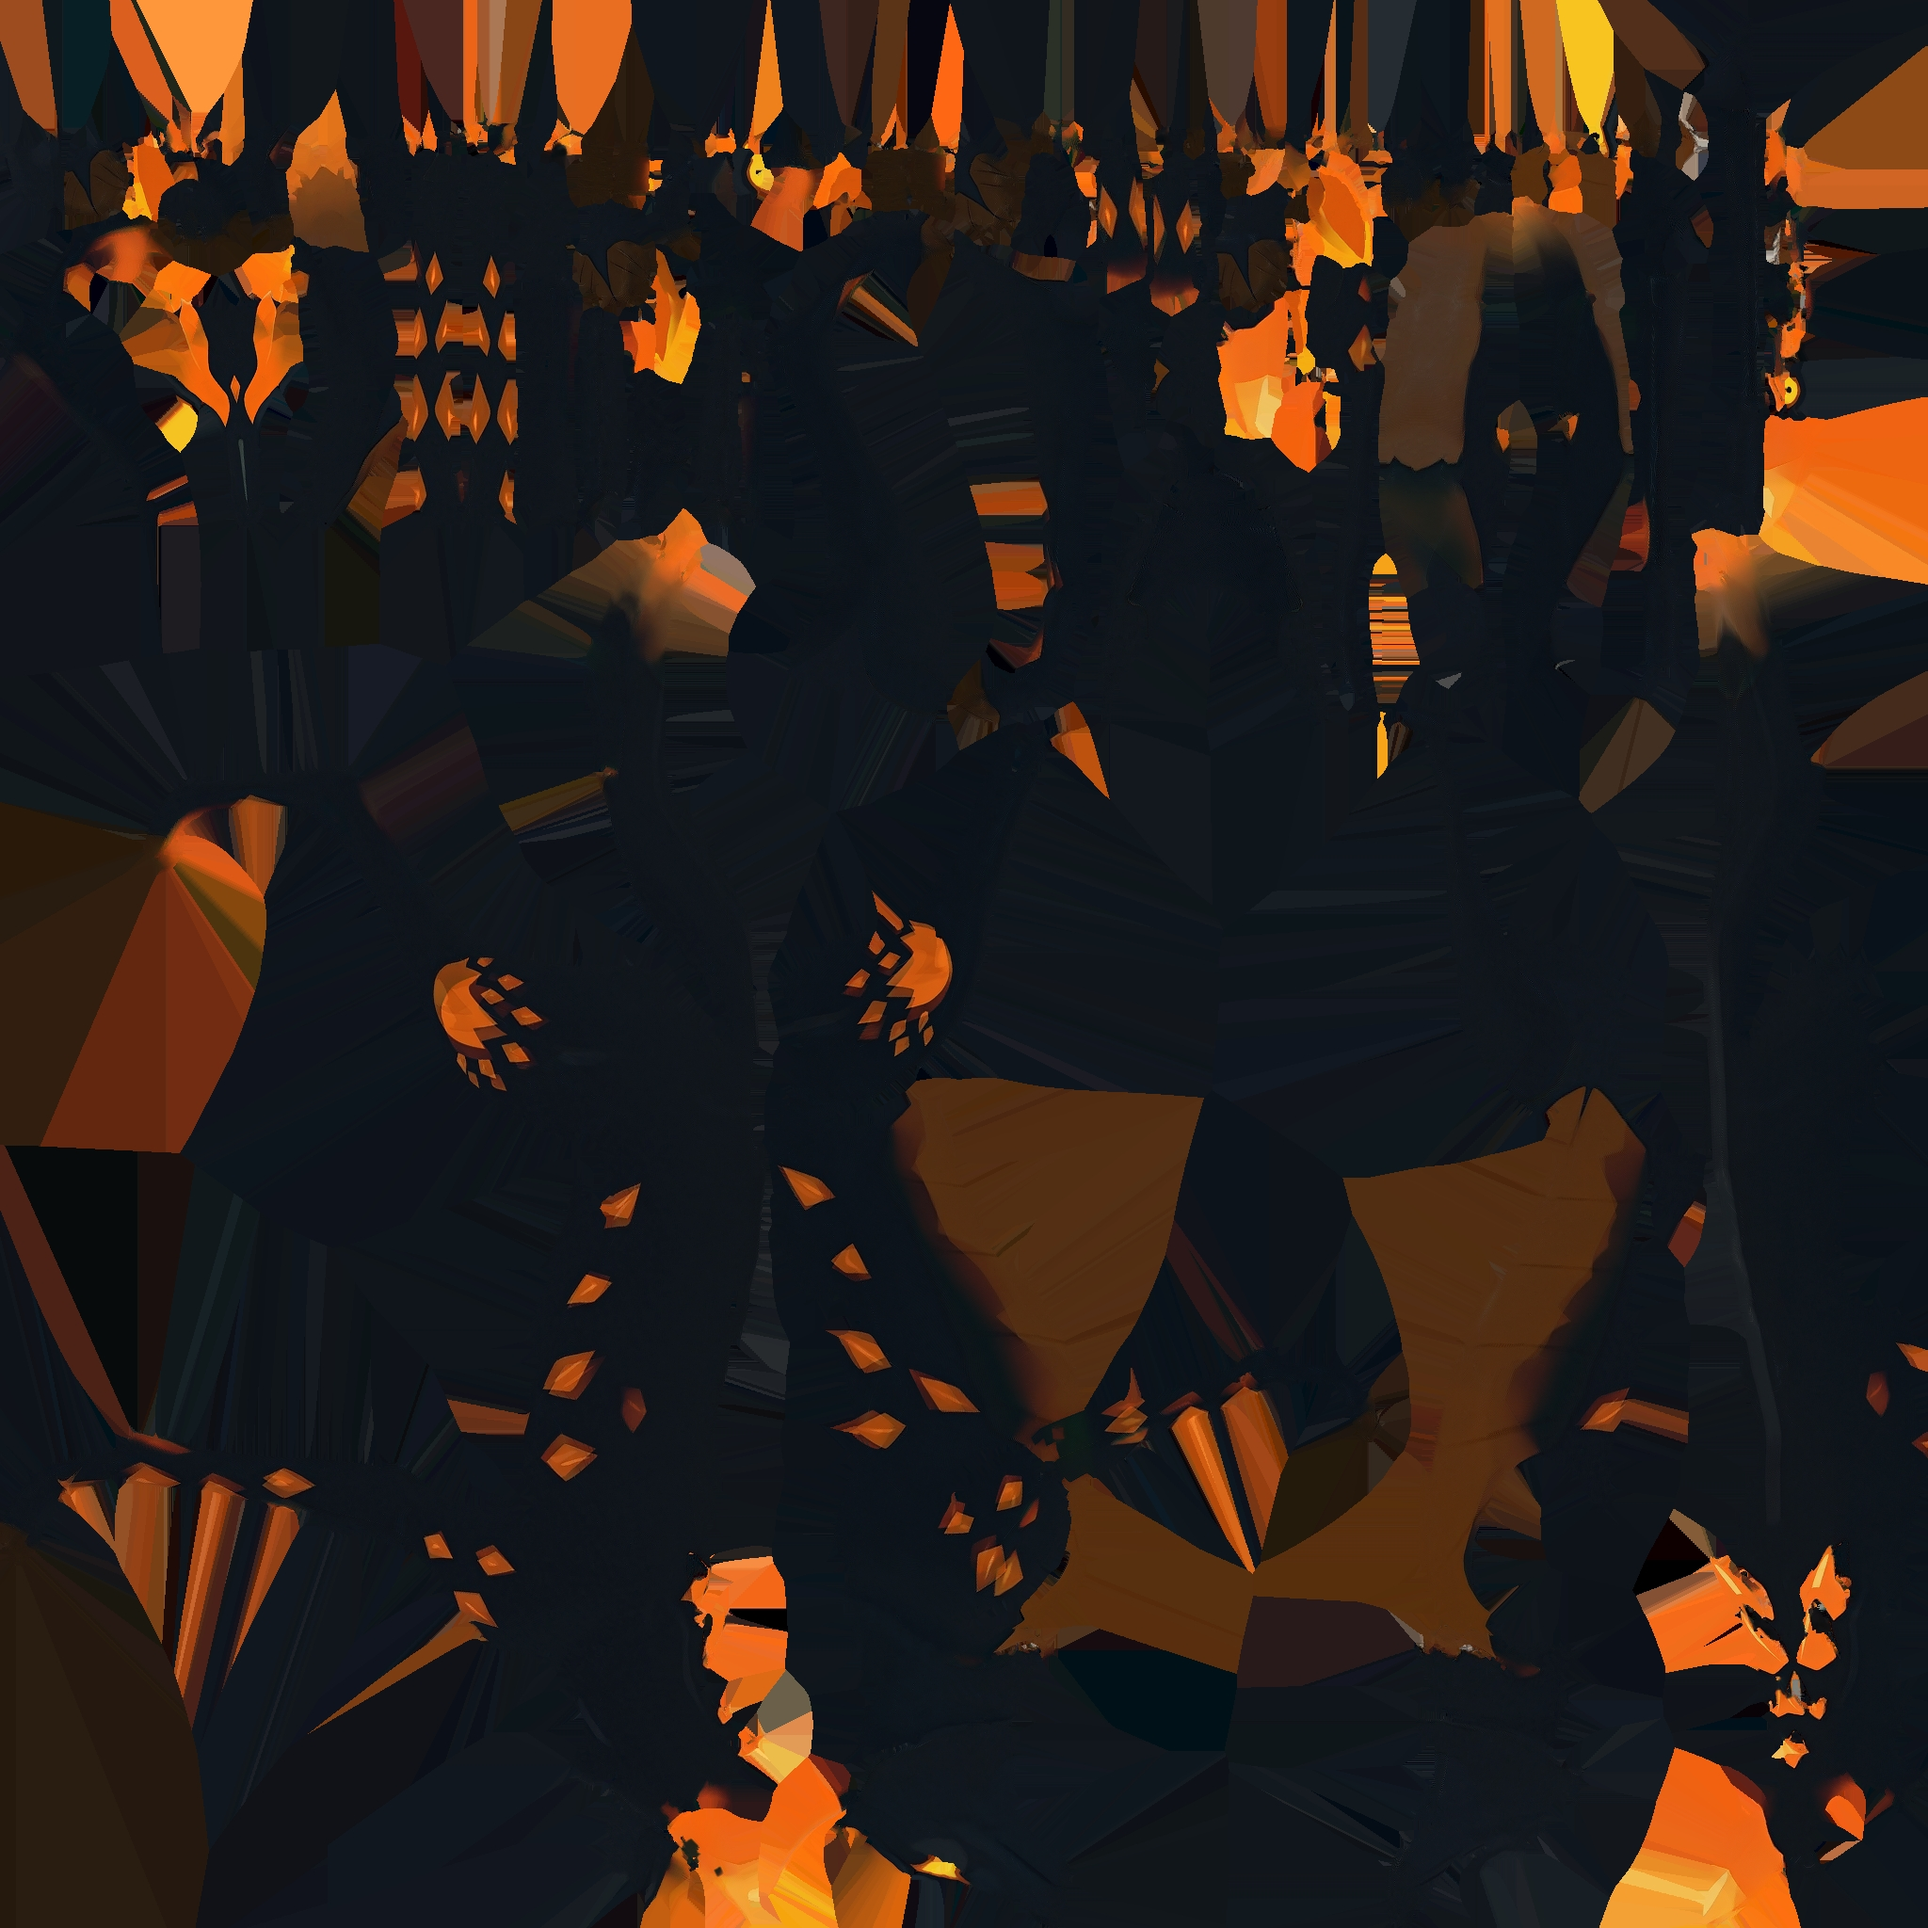
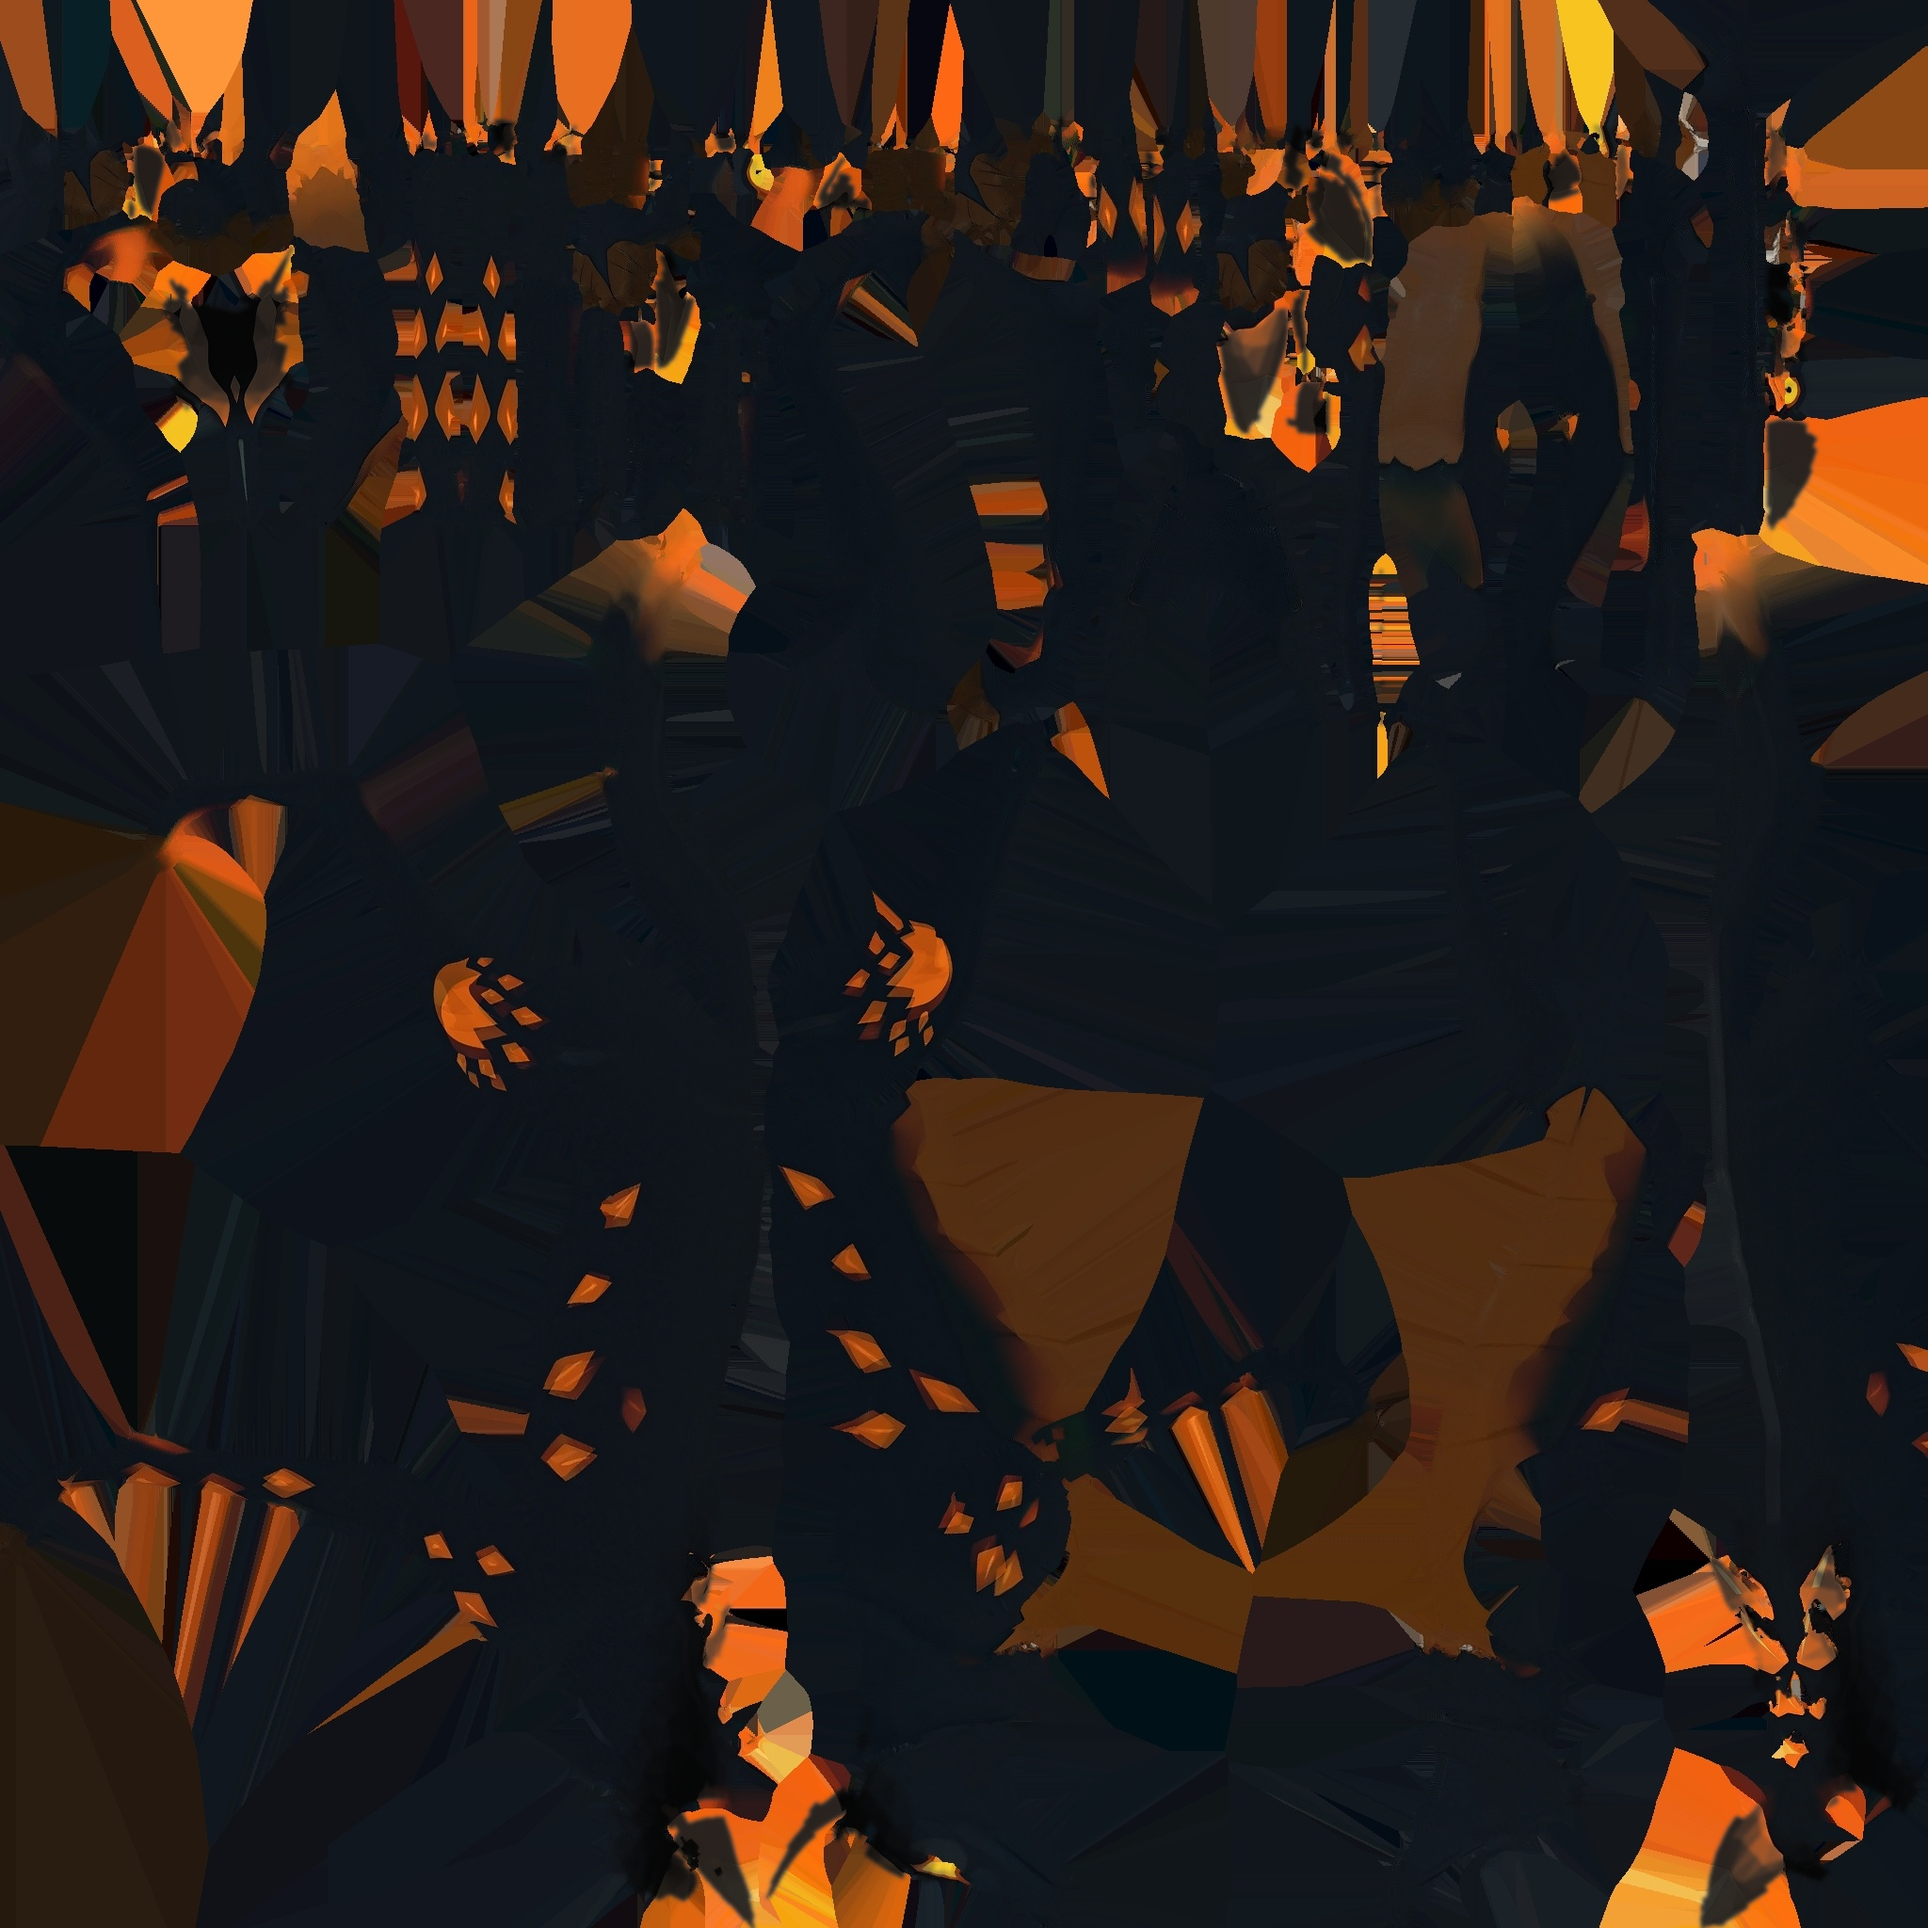
Cinder Jackal: fix the ears blowing out into flames at the sigil
toon.gdshader's glow is a hue/sat/val key on the painted texture with no UV
mask, and the ears' surface (outer and inner face alike) is painted the same
saturated hot-orange as the intended embers, so at the sigil close-up they
lit up as two screen-filling flames. glow_gain was already turned down for
this beast; going lower would dim the real embers by the same amount.

A geometric dead-zone in the shader (masking by model-space vertex position)
was tried first and reverted: on this ~12k-face mesh a handful of large
triangles span the whole ear, so per-pixel interpolation between vertices
left most of the visible surface only partially masked.

Fixed at the source instead: identified the ear triangles from the .glb's
own vertex data (pygltflib — Blender's download is blocked by this sandbox's
egress policy) and painted their exact UV footprint onto the 2048x2048
texture Godot's importer actually uses (cinder_jackal_ai_Image_0.jpg,
extracted from the glb; confirmed edits survive --import), scaling
saturation/value down on just those texels so the crack detail and hue
survive — reads as the ear in shadow, not a flat paint-over.

Before/after frames and the full writeup are in the request this closes.

Claude-Session: https://claude.ai/code/session_01TEcU4qVfk4g3BsAAWhkFo7

diff --git a/design/agents/requests/2026-09-22-1700-session-to-artist-jackal-ear-glare.md b/design/agents/requests/2026-09-22-1700-session-to-artist-jackal-ear-glare.md
@@ -3,7 +3,7 @@ tags:
   - request
 from: session
 to: artist
-status: taken
+status: done
 priority: high
 created: 2026-09-22
 taken_by: artist
@@ -30,4 +30,63 @@ hunter and sigil are the focus of the frame, and the embers on the back still
 glow. Before/after frames committed.
 
 ## Result
+
+**Cause.** `toon.gdshader`'s glow is a hue/saturation/value key on the painted
+texture (`fragment()`: hue within ~0.08 of orange, sat>0.55, val>0.55 lifts
+into `EMISSION`) — there is no UV mask, because `game/assets/3d/cast/
+cinder_jackal_ai_Image_0.jpg` (2048×2048, the actual texture the material
+uses — extracted from the .glb by Godot's importer at `gltf/
+embedded_image_handling=1`, confirmed by hash match and that a re-`--import`
+does **not** overwrite it) paints the ears' whole surface — outer AND the
+medial inner face — the same saturated hot-orange as the intended embers
+(spine ridge). `glow_gain` (already 0.55 for this beast) scales the whole
+model uniformly, so turning it down further would have dimmed the real
+embers just as much as the ears; there was no cheap uniform knob left.
+
+Tried first: a position-based "dead zone" in `toon.gdshader` (a varying
+carrying model-space vertex position, multiplying `hot` by a mask keyed off
+where the .glb's own vertex data says the ears are). Measured the ears off
+the mesh directly (`pygltflib`, no Blender available this session — network
+egress to download.blender.org is blocked in this sandbox): head-bone
+vertices widen past |x|=0.15 only above y=2.45, the muzzle stays under that
+the whole way up. The shader mask worked in principle but the model is only
+~12k faces total for the whole beast, so a handful of large triangles span
+the ear and per-pixel interpolation between a low-y base vertex and a
+high-y tip vertex left most of the visible ear only partially masked.
+Reverted it (`git checkout` on `toon.gdshader` / `combat_3d.gd`) rather than
+ship a shader knob that barely moved the screenshot.
+
+**Fix: paint the texture directly**, at the exact triangle footprint rather
+than a geometric guess. Script (kept for any future beast that needs the
+same treatment, not committed — one-off): for every triangle in `Mesh_0`,
+compute an "earness" from its vertices' bind-pose position (outer ear:
+y∈[2.42,2.62]→[0.09,0.20] on |x|; inner/medial face folds back toward the
+centreline so it stays narrow in X — caught separately by y∈[2.4,2.6] and
+z∈[1.85,2.0], forward enough to be head rather than the z≈1.0–1.5 the spine
+ridge sits at on its way up the neck), rasterize each qualifying triangle's
+UV footprint into a mask at the texture's own 2048×2048 resolution, blur 2px
+so triangle edges don't show as facets, then scale saturation and value down
+(up to ×0.18 and ×0.28 at full "earness") on exactly those texels — hue and
+local detail (the crack pattern) untouched, so it reads as the ear in shadow
+rather than a flat paint-over. 2,244 of 11,999 triangles qualified.
+
+Iterated by rendering after each pass (`screenshot.gd state=3dclimb`) and
+checking a crop at 3× — the first two passes only muted the outer cone
+(x-gated too tight, missed the medial face); confirmed coverage against the
+actual "hot" texels (not just the geometric guess) by recomputing the hue/
+sat/val key on the edited texture and flagging triangles still above
+threshold, which is what caught the medial-face gap.
+
+**Proof.** `ALL TESTS PASSED` (`run_tests.gd`; texture-only change, no logic
+touched). Before/after at the exact repro
+(`design/agents/frames/artist/2026-09-22-jackal-ear-glare-{before,after}.png`):
+the ears now read as dark, cracked, copper-rimmed ears — the hunter and
+sigil are the frame's focus — and the same fix carries to the normal combat
+camera (`state=3d`) and the felled-body reward screen, both checked, neither
+regressed. The forehead's own small ember (between the ears, near the mouth)
+was deliberately left lit — it isn't an ear, it's on the head not the back,
+and it sits right at the sigil the camera is aimed at.
+
+Commit: see the commit that introduces this Result section. Touches only
+`game/assets/3d/cast/cinder_jackal_ai_Image_0.jpg`.
 

diff --git a/design/agents/status/artist.md b/design/agents/status/artist.md
@@ -3,19 +3,48 @@ tags:
   - agent-status
 agent: artist
 updated: 2026-09-22
-working_on: not started yet
+working_on: idle — took the ear-glare request, done; picking next brief item next run
 ---
 
 # artist
 
 ## Now
 
-Not started. First run pending.
+Fixed `requests/2026-09-22-1700-session-to-artist-jackal-ear-glare.md`: the
+Cinder Jackal's inner ears were painting the same hot-orange as its embers,
+so the hue/sat/val glow key in `toon.gdshader` lit up the whole ear at the
+sigil close-up. No shader knob could fix it without also dimming the real
+embers (glow_gain is a single uniform for the whole beast); a geometric
+"dead zone" in the shader was too imprecise on this ~12k-face mesh (per-pixel
+interpolation left most of the ear only partially masked). Fixed at the
+source instead: painted the ear triangles' exact UV footprint directly onto
+`cinder_jackal_ai_Image_0.jpg` (the 2048×2048 texture Godot's importer
+extracted from the .glb — confirmed edits there survive `--import`), scaling
+saturation/value down on just those texels so hue/detail (the crack pattern)
+survive and it reads as ear-in-shadow, not a paint-over.
+
+Before/after in `design/agents/frames/artist/2026-09-22-jackal-ear-glare-*.png`
+(the exact repro in the request). Also checked `state=3d`, `3dgrip`,
+`3dstrike` and `3dreward` (the felled body) — the fix carries cleanly to
+every camera, no regression. `ALL TESTS PASSED`. Request marked `done` with
+the full writeup.
+
+Blender is unreachable this session (download.blender.org is blocked by the
+sandbox's egress policy) — did the geometry analysis by parsing the .glb
+directly with `pygltflib` instead. Worth knowing for whoever picks up
+`ai_beast.py`-based work next: if Blender download fails, the .glb is still
+fully inspectable without it for anything that doesn't need re-export.
 
 ## Next
 
-See [[BOARD]].
+Haven't started the hunters (Frog, Goblin Engineer still Python-primitive
+next to a textured/rigged beast — the biggest style gap per the brief) or the
+arena/cards. Will pick up the brief in that order next run, checking
+`requests/` first as always.
 
 ## Log
 
+- 2026-09-22 — fixed the jackal ear-glare request (texture edit, not a
+  shader change — see `## Now`). `ALL TESTS PASSED`; checked every 3D camera
+  state, no regression.
 - 2026-09-22 — note created by the session.
